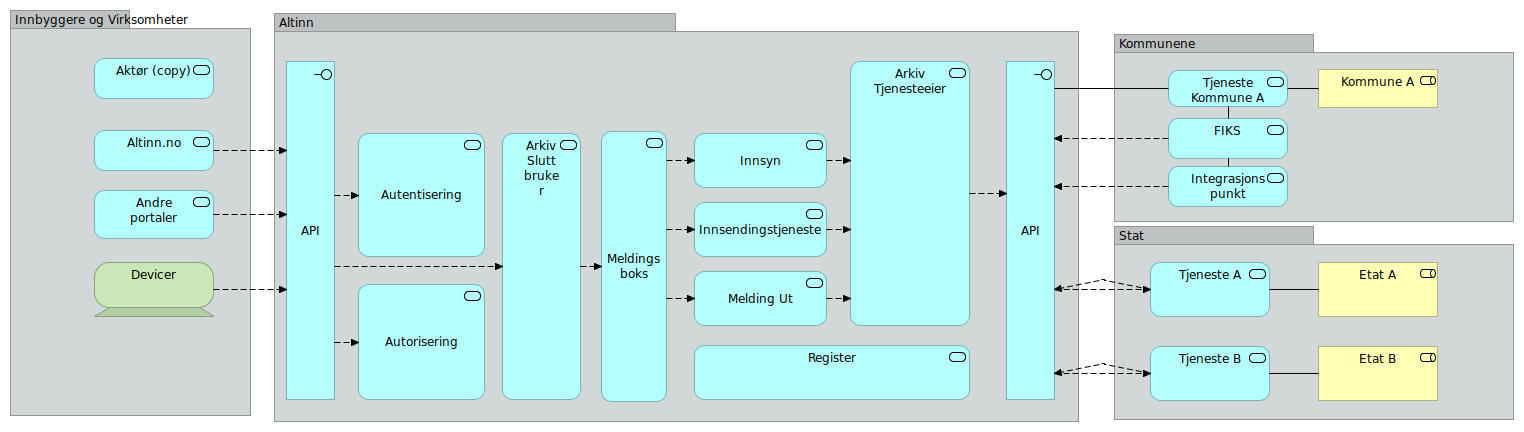
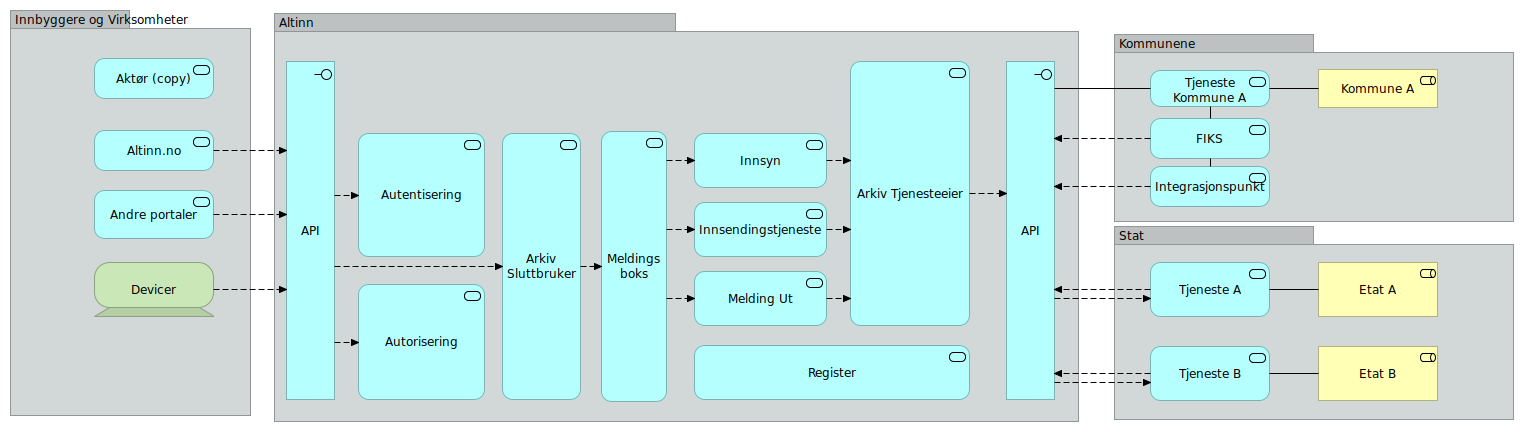
Mindre format-justeringer

diff --git a/docs/706502fc-f537-48f3-90d5-6f7943ff08e0/views/b998717b-fdf0-4ac4-b7f8-daa540d98ae4.html b/docs/706502fc-f537-48f3-90d5-6f7943ff08e0/views/b998717b-fdf0-4ac4-b7f8-daa540d98ae4.html
@@ -49,10 +49,10 @@
 								<area shape="rect" coords="1318,262,1438,317" href="../elements/b0fe4ec2-22fd-4657-8b50-868dcc113d54.html"  target="element">
 								<area shape="rect" coords="1318,346,1438,401" href="../elements/4d5bd62c-7abe-4a52-9b4d-3a6623f85bcb.html"  target="element">
 
-								<area shape="rect" coords="1168,118,1288,159" href="../elements/983975b7-8031-4a68-ad54-d75e89227895.html"  target="element">
-								<area shape="rect" coords="1168,166,1288,207" href="../elements/3b6dca8a-1a5f-46aa-bf3c-2572397b472b.html"  target="element">
+								<area shape="rect" coords="1150,118,1270,159" href="../elements/983975b7-8031-4a68-ad54-d75e89227895.html"  target="element">
+								<area shape="rect" coords="1150,166,1270,207" href="../elements/3b6dca8a-1a5f-46aa-bf3c-2572397b472b.html"  target="element">
 								<area shape="rect" coords="1318,69,1438,108" href="../elements/89371f25-7d3f-468e-88af-80d02269aad1.html"  target="element">
-								<area shape="rect" coords="1168,70,1288,107" href="../elements/ffde3961-e17c-4d85-a513-93a0b6da4a26.html"  target="element">
+								<area shape="rect" coords="1150,70,1270,107" href="../elements/ffde3961-e17c-4d85-a513-93a0b6da4a26.html"  target="element">
 
 
 			</map>
